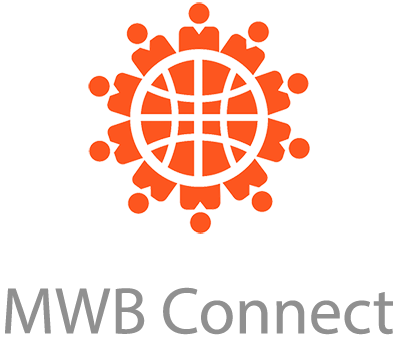
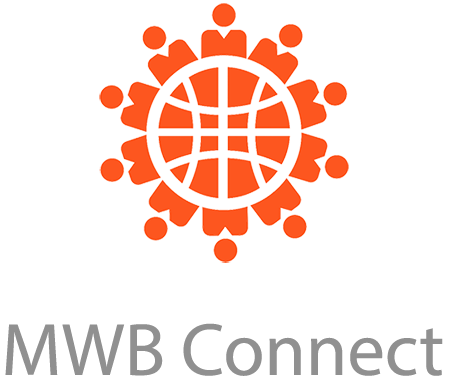
Fixed launch image size, quizzes and show certificate

diff --git a/lib/utils/utils.dart b/lib/utils/utils.dart
@@ -78,7 +78,7 @@ class Utils {
     DateFormat timeFormat = DateFormat('h:ma');
     DateTime date = Utils.resetTime(DateTime.now());
     while (dayOfWeekFormat.format(date) != availability.dayOfWeek) {
-      date = Jiffy(date).add(days: 1).dateTime;
+      date = Utils.getDSTAdjustedDateTime(date.add(Duration(days: 1)));
     }
     List<int> availabilityTimeFrom = Utils.convertTime12to24(availability.time?.from as String);
     List<int> availabilityTimeTo = Utils.convertTime12to24(availability.time?.to as String);
@@ -99,7 +99,7 @@ class Utils {
     DateFormat timeFormat = DateFormat('ha');    
     DateTime date = Utils.resetTime(DateTime.now());
     while (dayOfWeekFormat.format(date) != availability.dayOfWeek) {
-      date = Jiffy(date).add(days: 1).dateTime;
+      date = Utils.getDSTAdjustedDateTime(date.add(Duration(days: 1)));
     }
     List<int> availabilityTimeFrom = Utils.convertTime12to24(availability.time?.from as String);
     List<int> availabilityTimeTo = Utils.convertTime12to24(availability.time?.to as String);
@@ -204,23 +204,37 @@ class Utils {
     Jiffy deadline = Jiffy(Utils.resetTime(DateTime.parse(_storageService.registeredOn as String)));
     if (deadline.isSame(now)) {
       deadline.add(weeks: 1);
+      deadline = Jiffy(getDSTAdjustedDateTime(deadline.dateTime));
     } else {
       while (deadline.isBefore(now, Units.DAY)) {
         deadline.add(weeks: 1);
+        deadline = Jiffy(getDSTAdjustedDateTime(deadline.dateTime));
       }
     }
     return deadline.dateTime;
   }
 
-  static String getTrainingWeek() {
-    Jiffy nextDeadline = Jiffy(getNextDeadline());
-    Jiffy date = Jiffy(Utils.resetTime(DateTime.parse(_storageService.registeredOn as String)));
-    int weekNumber = 0;
-    while (date.isSameOrBefore(nextDeadline, Units.DAY)) {
-      date.add(weeks: 1);
-      weekNumber++;
+  static DateTime getDSTAdjustedDateTime(DateTime dateTime) {
+    if (dateTime.hour == 23) {
+      dateTime = dateTime.subtract(Duration(hours: 23));
+      dateTime = dateTime.add(Duration(days: 1));
+    } else if (dateTime.hour == 1) {
+      dateTime = dateTime.subtract(Duration(hours: 1));
     }
-    weekNumber--;
+    return dateTime;
+  }
+
+  static int getDSTAdjustedDifferenceInDays(DateTime dateTime1, DateTime dateTime2) {
+    int differenceInHours = dateTime1.difference(dateTime2).inHours;
+    int differenceInDays = dateTime1.difference(dateTime2).inDays;
+    if (differenceInHours % 24 == 23) {
+      differenceInDays += 1;
+    }
+    return differenceInDays;
+  }  
+
+  static String getTrainingWeek() {
+    int weekNumber = getTrainingWeekNumber();
     String week = '';
     switch (weekNumber) {
       case 1:
@@ -237,6 +251,19 @@ class Utils {
     }
     return week;
   }
+
+  static int getTrainingWeekNumber() {
+    Jiffy nextDeadline = Jiffy(getNextDeadline());
+    Jiffy dateFromRegisteredOn = Jiffy(Utils.resetTime(DateTime.parse(_storageService.registeredOn as String)));
+    int weekNumber = 0;
+    while (dateFromRegisteredOn.isSameOrBefore(nextDeadline, Units.DAY)) {
+      dateFromRegisteredOn.add(weeks: 1);
+      dateFromRegisteredOn = Jiffy(getDSTAdjustedDateTime(dateFromRegisteredOn.dateTime));
+      weekNumber++;
+    }
+    weekNumber--;
+    return weekNumber;
+  }  
   
   static String getIndefiniteArticle(String noun) {
     String article = 'common.a'.tr();

diff --git a/lib/ui/views/connect_with_mentor/widgets/training_completed_widget.dart b/lib/ui/views/connect_with_mentor/widgets/training_completed_widget.dart
@@ -2,11 +2,13 @@ import 'package:flutter/material.dart';
 import 'package:provider/provider.dart';
 import 'package:flutter/gestures.dart';
 import 'package:easy_localization/easy_localization.dart';
+import 'package:mwb_connect_app/utils/constants.dart';
 import 'package:mwb_connect_app/utils/colors.dart';
 import 'package:mwb_connect_app/utils/utils.dart';
 import 'package:mwb_connect_app/core/viewmodels/connect_with_mentor_view_model.dart';
 import 'package:mwb_connect_app/core/viewmodels/goals_view_model.dart';
 import 'package:mwb_connect_app/core/viewmodels/steps_view_model.dart';
+import 'package:mwb_connect_app/core/viewmodels/quizzes_view_model.dart';
 import 'package:mwb_connect_app/ui/views/goals/goals_view.dart';
 import 'package:mwb_connect_app/ui/views/goal_steps/goal_steps_view.dart';
 
@@ -22,6 +24,7 @@ class _TrainingCompletedState extends State<TrainingCompleted> {
   ConnectWithMentorViewModel? _connectWithMentorProvider;
   GoalsViewModel? _goalsProvider;
   StepsViewModel? _stepsProvider;
+  QuizzesViewModel? _quizzesProvider;
 
   Widget _showTrainingCompletedCard() {
     return Padding(
@@ -40,13 +43,16 @@ class _TrainingCompletedState extends State<TrainingCompleted> {
               Container(
                 padding: const EdgeInsets.only(left: 3.0),
                 child: _showText()
-              )
+              ),
+              if (shouldShowReceiveCertificate() == true) _showReceiveCertificate(),              
             ],
           )
         ),
       ),
     );
   }
+
+  bool shouldShowReceiveCertificate() => Utils.getTrainingWeekNumber() >= AppConstants.studentWeeksTraining && _quizzesProvider!.quizzes[_quizzesProvider!.quizzes.length - 1].number == AppConstants.studentQuizzes;
 
   Widget _showTitle() {
     String week = Utils.getTrainingWeek();
@@ -98,6 +104,19 @@ class _TrainingCompletedState extends State<TrainingCompleted> {
       ),
     );
   }
+
+  Widget _showReceiveCertificate() {
+    return Padding(
+      padding: const EdgeInsets.fromLTRB(10.0, 10.0, 10.0, 10.0),
+      child: Text(
+        'connect_with_mentor.congratulations_certificate'.tr(),
+        style: const TextStyle(
+          color: AppColors.EMERALD,
+          fontWeight: FontWeight.bold
+        )
+      )
+    );
+  }   
  
   void _goToTraining() {
     if (_connectWithMentorProvider?.goal != null) {
@@ -121,7 +140,8 @@ class _TrainingCompletedState extends State<TrainingCompleted> {
   Widget build(BuildContext context) {
     _connectWithMentorProvider = Provider.of<ConnectWithMentorViewModel>(context);
     _goalsProvider = Provider.of<GoalsViewModel>(context);
-    _stepsProvider = Provider.of<StepsViewModel>(context); 
+    _stepsProvider = Provider.of<StepsViewModel>(context);
+    _quizzesProvider = Provider.of<QuizzesViewModel>(context);
 
     return _showTrainingCompletedCard();
   }

diff --git a/lib/core/viewmodels/lesson_request_view_model.dart b/lib/core/viewmodels/lesson_request_view_model.dart
@@ -1,6 +1,6 @@
 import 'package:flutter/material.dart';
-import 'package:jiffy/jiffy.dart';
 import 'package:flutter_phoenix/flutter_phoenix.dart';
+import 'package:jiffy/jiffy.dart';
 import 'package:mwb_connect_app/service_locator.dart';
 import 'package:mwb_connect_app/utils/utils.dart';
 import 'package:mwb_connect_app/utils/constants.dart';
@@ -283,9 +283,9 @@ class LessonRequestViewModel extends ChangeNotifier {
     int lessonsNumber = AppConstants.minLessonsNumberRecurrence;
     if (endRecurrenceDate != null) {
       if (isLessonRequest) {
-        lessonsNumber = endRecurrenceDate.difference(Utils.resetTime(lessonRequest?.lessonDateTime as DateTime)).inDays ~/ 7 + 1;
+        lessonsNumber = endRecurrenceDate.difference(lessonRequest?.lessonDateTime as DateTime).inDays ~/ 7 + 1;
       } else if (isNextLesson) {
-        lessonsNumber = endRecurrenceDate.difference(Utils.resetTime(nextLesson?.dateTime as DateTime)).inDays ~/ 7 + 1;
+        lessonsNumber = endRecurrenceDate.difference(nextLesson?.dateTime as DateTime).inDays ~/ 7 + 1;        
       }
     }
     return lessonsNumber;
@@ -294,7 +294,7 @@ class LessonRequestViewModel extends ChangeNotifier {
   bool shouldShowTrainingCompleted() {
     DateTime now = Utils.resetTime(DateTime.now());
     DateTime registeredOn = Utils.resetTime(DateTime.parse(_storageService.registeredOn as String));
-    return now.difference(registeredOn).inDays <= 7 * AppConstants.mentorWeeksTraining;
+    return Utils.getDSTAdjustedDifferenceInDays(now, registeredOn) <= 7 * AppConstants.mentorWeeksTraining;
   }
   
   void setIsLessonRecurrent() {

diff --git a/lib/core/viewmodels/connect_with_mentor_view_model.dart b/lib/core/viewmodels/connect_with_mentor_view_model.dart
@@ -96,10 +96,9 @@ class ConnectWithMentorViewModel extends ChangeNotifier {
   String get fieldName => _storageService.fieldName != null ? (_storageService.fieldName as String).toLowerCase() : 'common.remote'.tr();
 
   DateTime? getCertificateDate() {
-    DateTime registeredOn = DateTime.parse(_storageService.registeredOn as String);
-    registeredOn = Utils.resetTime(registeredOn);
-    DateTime? date;
+    DateTime date = DateTime.now();
     if (_storageService.registeredOn != null) {
+      DateTime registeredOn = DateTime.parse(_storageService.registeredOn as String);
       date = Jiffy(registeredOn).add(months: 3).dateTime;
     }
     return date;
@@ -108,14 +107,8 @@ class ConnectWithMentorViewModel extends ChangeNotifier {
   bool shouldShowTrainingCompleted() {
     DateTime now = Utils.resetTime(DateTime.now());
     DateTime registeredOn = Utils.resetTime(DateTime.parse(_storageService.registeredOn as String));
-    return now.difference(registeredOn).inDays <= 7 * AppConstants.studentWeeksTraining;
+    return Utils.getDSTAdjustedDifferenceInDays(now, registeredOn) <= 7 * AppConstants.studentWeeksTraining;
   }  
-
-  bool shouldReceiveCertificate() {
-    DateTime certificateDate = Utils.resetTime(getCertificateDate() as DateTime);
-    DateTime deadLine = Utils.resetTime(Utils.getNextDeadline() as DateTime);
-    return certificateDate.difference(deadLine).inDays <= 0;
-  }
 
   DateTime getCorrectEndRecurrenceDate() {
     int days = 0;

diff --git a/lib/main.dart b/lib/main.dart
@@ -1,10 +1,8 @@
-import 'dart:io';
 import 'dart:async';
-import 'package:firebase_auth/firebase_auth.dart';
 import 'package:flutter/material.dart';
-import 'package:path_provider/path_provider.dart';
-import 'package:firebase_core/firebase_core.dart';
 import 'package:provider/provider.dart';
+import 'package:firebase_auth/firebase_auth.dart';
+import 'package:firebase_core/firebase_core.dart';
 import 'package:flutuate_mixpanel/flutuate_mixpanel.dart';
 import 'package:easy_localization/easy_localization.dart';
 import 'package:flutter_phoenix/flutter_phoenix.dart';
@@ -36,14 +34,12 @@ Future<void> main() async {
   await EasyLocalization.ensureInitialized();
   await Firebase.initializeApp();
   await _signInFirebaseAnonymously();
-  await _initAppDirectory();
 
-  Directory directory = await getApplicationDocumentsDirectory();
   runApp(
     Phoenix(
       child: EasyLocalization(
         supportedLocales: [Locale('en', 'US')],
-        path: directory.path+'/i18n',
+        path: 'assets/i18n',
         fallbackLocale: const Locale('en', 'US'),
         child: MWBConnectApp(AppConstants.mixpanelToken)
       ),

diff --git a/lib/ui/views/connect_with_mentor/widgets/solve_quiz_add_step_widget.dart b/lib/ui/views/connect_with_mentor/widgets/solve_quiz_add_step_widget.dart
@@ -52,8 +52,7 @@ class _SolveQuizAddStepState extends State<SolveQuizAddStep> {
                   children: [
                     _showTopText(),
                     ConditionsList(quizzes: quizzes, shouldShowQuizzes: shouldShowQuizzes, shouldShowStep: shouldShowStep),
-                    if (_connectWithMentorProvider?.shouldReceiveCertificate() == false) _showNextDeadline(),
-                    if (_connectWithMentorProvider?.shouldReceiveCertificate() == true) _showReceiveCertificate(),
+                    _showNextDeadline(),
                     _showGoButton()
                   ]
                 )
@@ -146,19 +145,6 @@ class _SolveQuizAddStepState extends State<SolveQuizAddStep> {
       )
     );
   }
-
-  Widget _showReceiveCertificate() {
-    return Padding(
-      padding: const EdgeInsets.only(bottom: 15.0),
-        child: Text(
-        'connect_with_mentor.congratulations_certificate'.tr(),
-        style: const TextStyle(
-          color: AppColors.EMERALD,
-          fontWeight: FontWeight.bold
-        )
-      ),
-    );
-  }  
 
   Widget _showGoButton() {
     return Center(

diff --git a/lib/ui/views/lesson_request/lesson_request_view.dart b/lib/ui/views/lesson_request/lesson_request_view.dart
@@ -49,14 +49,16 @@ class _LessonRequestViewState extends State<LessonRequestView> with WidgetsBindi
   Future<void> didChangeAppLifecycleState(AppLifecycleState state) async {
     if (state == AppLifecycleState.resumed) {
       _isInit = false;
-      if (!_checkAppReload()) {
-        _setPreferences();
-        setState(() {});
-        await _init();
-      }
+      _setTimeZone();
+      setState(() {});
+      _init();
       _checkUpdate();
-    }  
+    }
   }
+
+  void _setTimeZone() {
+    _commonProvider?.setTimeZone();
+  }   
 
   Future<void> _checkUpdate() async {
     final UpdateAppViewModel updatesProvider = locator<UpdateAppViewModel>();
@@ -67,14 +69,6 @@ class _LessonRequestViewState extends State<LessonRequestView> with WidgetsBindi
       Navigator.push(context, MaterialPageRoute<UpdateAppView>(builder: (_) => UpdateAppView(isForced: true)));
     }    
   }  
-
-  bool _checkAppReload() {
-    return _commonProvider?.checkAppReload() as bool;
-  }    
-  
-  void _setPreferences() {
-    _commonProvider?.setPreferences();   
-  }
 
   @override
   void dispose() {

diff --git a/lib/core/viewmodels/update_app_view_model.dart b/lib/core/viewmodels/update_app_view_model.dart
@@ -2,6 +2,7 @@ import 'package:flutter/material.dart';
 import 'package:package_info/package_info.dart';
 import 'package:easy_localization/easy_localization.dart';
 import 'package:mwb_connect_app/service_locator.dart';
+import 'package:mwb_connect_app/utils/utils.dart';
 import 'package:mwb_connect_app/utils/constants.dart';
 import 'package:mwb_connect_app/utils/update_status.dart';
 import 'package:mwb_connect_app/core/models/app_version_model.dart';
@@ -58,7 +59,7 @@ class UpdateAppViewModel extends ChangeNotifier {
     if (_storageService.lastUpdateShownDateTime != null) {
       lastUpdateShownDateTime = DateTime.parse(_storageService.lastUpdateShownDateTime as String);
     }
-    if (_storageService.lastUpdateShownDateTime == null || now.difference(lastUpdateShownDateTime).inDays >= 7) {
+    if (_storageService.lastUpdateShownDateTime == null || Utils.getDSTAdjustedDifferenceInDays(now, lastUpdateShownDateTime) >= 7) {
       return true;
     } else {
       return false;

diff --git a/lib/ui/views/connect_with_mentor/connect_with_mentor_view.dart b/lib/ui/views/connect_with_mentor/connect_with_mentor_view.dart
@@ -50,11 +50,8 @@ class _ConnectWithMentorViewState extends State<ConnectWithMentorView> with Widg
     if (state == AppLifecycleState.resumed) {
       _isInit = false;
       _setTimeZone();
-      if (_checkAppReload() == false) {
-        _setPreferences();
-        setState(() {});
-        _init();
-      }
+      setState(() {});
+      _init();
       _checkUpdate();
     }
   }
@@ -71,15 +68,7 @@ class _ConnectWithMentorViewState extends State<ConnectWithMentorView> with Widg
     } else if (updateStatus == UpdateStatus.FORCE_UPDATE) {
       Navigator.push(context, MaterialPageRoute<UpdateAppView>(builder: (_) => UpdateAppView(isForced: true)));
     }    
-  } 
-  
-  bool? _checkAppReload() {
-    return _commonProvider?.checkAppReload();
-  }    
-  
-  void _setPreferences() {
-    _commonProvider?.setPreferences();   
-  }  
+  }   
   
   @override
   void dispose() {

diff --git a/lib/core/viewmodels/steps_view_model.dart b/lib/core/viewmodels/steps_view_model.dart
@@ -35,8 +35,8 @@ class StepsViewModel extends ChangeNotifier {
     DateTime nextDeadline = Utils.getNextDeadline() as DateTime;
     DateTime now = Utils.resetTime(DateTime.now());
     DateTime registeredOn = Utils.resetTime(DateTime.parse(_storageService.registeredOn as String));
-    int limit = now.difference(registeredOn).inDays > 7 ? 7 : 8;
-    if (lastStepAdded.id != null && nextDeadline.difference(Utils.resetTime(lastStepAdded.dateTime as DateTime)).inDays < limit) {
+    int limit = Utils.getDSTAdjustedDifferenceInDays(now, registeredOn) > 7 ? 7 : 8;
+    if (lastStepAdded.id != null && Utils.getDSTAdjustedDifferenceInDays(nextDeadline, Utils.resetTime(lastStepAdded.dateTime as DateTime)) < limit) {
       return false;
     } else {
       return true;

diff --git a/lib/utils/constants.dart b/lib/utils/constants.dart
@@ -23,6 +23,6 @@ class AppConstants {
   static const int minLessonsNumberRecurrence = 2;
   static const int maxLessonsNumberRecurrence = 10;
   static const int mentorWeeksTraining = 4;
-  static const int studentWeeksTraining = 12;
-  
+  static const int studentWeeksTraining = 13;
+  static const int studentQuizzes = 12;
 }
